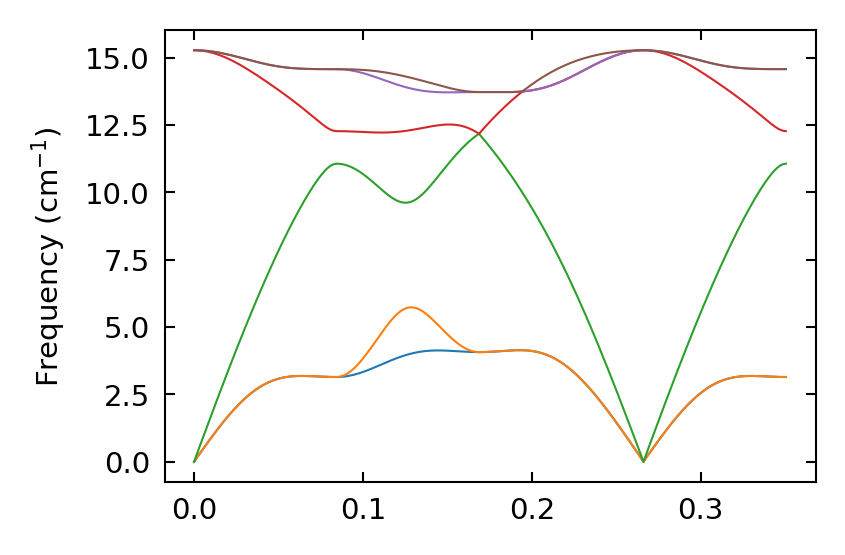
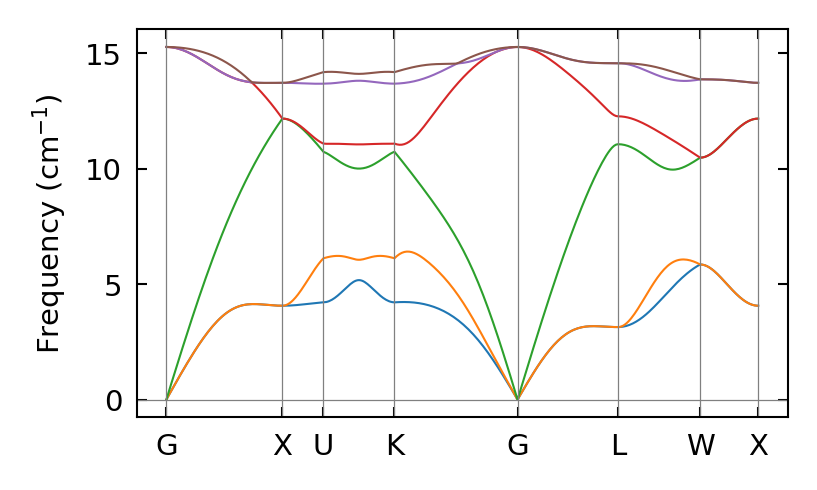
update

diff --git a/examples/phonon_fd/tools/plot_phband_phonopy.py b/examples/phonon_fd/tools/plot_phband_phonopy.py
@@ -4,24 +4,60 @@ from optparse import OptionParser
 import yaml
     
 def extract_dispersion(obj):
-
+    
     nk = len(obj)
     nbands = len(obj[0]['band'])
+    kpoints = np.zeros((nk, 3))
     kdistances = np.zeros(nk)
     frequencies = np.zeros((nk, nbands))
     for ik in range(nk):
+        kpoints[ik] = np.asarray(obj[ik]['q-position'])
         kdistances[ik] = obj[ik]['distance']
         for ib in range(nbands):
             frequencies[ik][ib] = obj[ik]['band'][ib]['frequency']
-    return kdistances, frequencies
+    
+    ##
+    dks = np.zeros((nk-1, 3))
+    dk_abs = np.zeros(nk-1)
+    for j in range(3):
+        dks[:,j] = np.diff(kpoints[:,j])
+    
+    for ik, dk in enumerate(dks):
+        dk_abs[ik] = np.linalg.norm(dk)
+    
+    idx_div = np.where(abs(dk_abs) < 1e-5)[0]
+    
+    ### idx_sections
+    ### 1st section : from idx_sections[0][0] to idx_sections[0][1]
+    ### 2st section : from idx_sections[1][0] to idx_sections[1][1]
+    idx_sections = []
+    for isec, idx in enumerate(idx_div):
+        if isec == 0:
+            i0 = 0
+            i1 = idx 
+        else:
+            i0 = idx_sections[-1][1] + 1
+            i1 = idx 
+        idx_sections.append([i0, i1])
+    ##
+    i0 = idx_div[-1] + 1
+    i1 = nk - 1
+    idx_sections.append([i0, i1])
+    
+    for isec, idx in enumerate(idx_sections):
+        i0 = idx[0]
+        i1 = idx[1]
+     
+    return kpoints, kdistances, frequencies, idx_sections
 
 import matplotlib
 matplotlib.use('Agg')
 import matplotlib.pyplot as plt
 from mpl.initialize import (set_matplot, set_axis, set_legend)
 
-def plot_band(ks, fs, figname='fig_phband_phonopy.png', 
-        dpi=300, fontsize=7, fig_width=2.8, aspect=0.7, lw=0.5, ms=2.0):
+def plot_band(ks, fs, xticks=None, xticklabels=None, 
+        figname='fig_phband_phonopy.png', 
+        dpi=300, fontsize=7, fig_width=2.8, aspect=0.6, lw=0.5, ms=2.0):
     
     set_matplot(fontsize=fontsize)
     fig = plt.figure(figsize=(fig_width, aspect*fig_width))
@@ -37,8 +73,17 @@ def plot_band(ks, fs, figname='fig_phband_phonopy.png',
                 mfc='none', mew=lw
                 )
     
-    set_axis(ax)
+    ### symmetric points
+    if xticks is not None and xticklabels is not None:
+        for xtick in xticks:
+            ax.axvline(xtick, linestyle='-', lw=0.3, c='grey')
+        
+        if len(xticks) == len(xticklabels):
+            ax.set_xticks(xticks)
+            ax.set_xticklabels(xticklabels)
     
+    ax.axhline(0, lw=0.3, linestyle='-', c='grey')
+    set_axis(ax)
     fig.savefig(figname, dpi=dpi, bbox_inches='tight')
     print(" Output", figname)
     return fig
@@ -48,9 +93,18 @@ def main(options):
     with open(options.filename) as file:
         obj = yaml.safe_load(file)
 
-    ks, fs = extract_dispersion(obj['phonon'])
+    kpoints, kdistances, fs, idx_sections = extract_dispersion(obj['phonon'])
 
-    plot_band(ks, fs)
+    ###
+    xticks = []
+    xticks.append(kdistances[0])
+    for isec, idx in enumerate(idx_sections):
+        i1 = idx[1]
+        xticks.append(kdistances[i1])
+    
+    xticklabels = options.symmetric_names.split(":")
+    
+    plot_band(kdistances, fs, xticks=xticks, xticklabels=xticklabels)
 
     
 if __name__ == '__main__':
@@ -58,6 +112,11 @@ if __name__ == '__main__':
     
     parser.add_option("-f", "--filename", dest="filename", type="string",
             default="band.yaml", 
+            help="band file generated by Phonopy [band.yaml]")
+    
+    parser.add_option("--symmetric_names", dest="symmetric_names", 
+            type="string",
+            default="G:X:U:K:G:L:W:X", 
             help="band file generated by Phonopy [band.yaml]")
     
     (options, args) = parser.parse_args()
